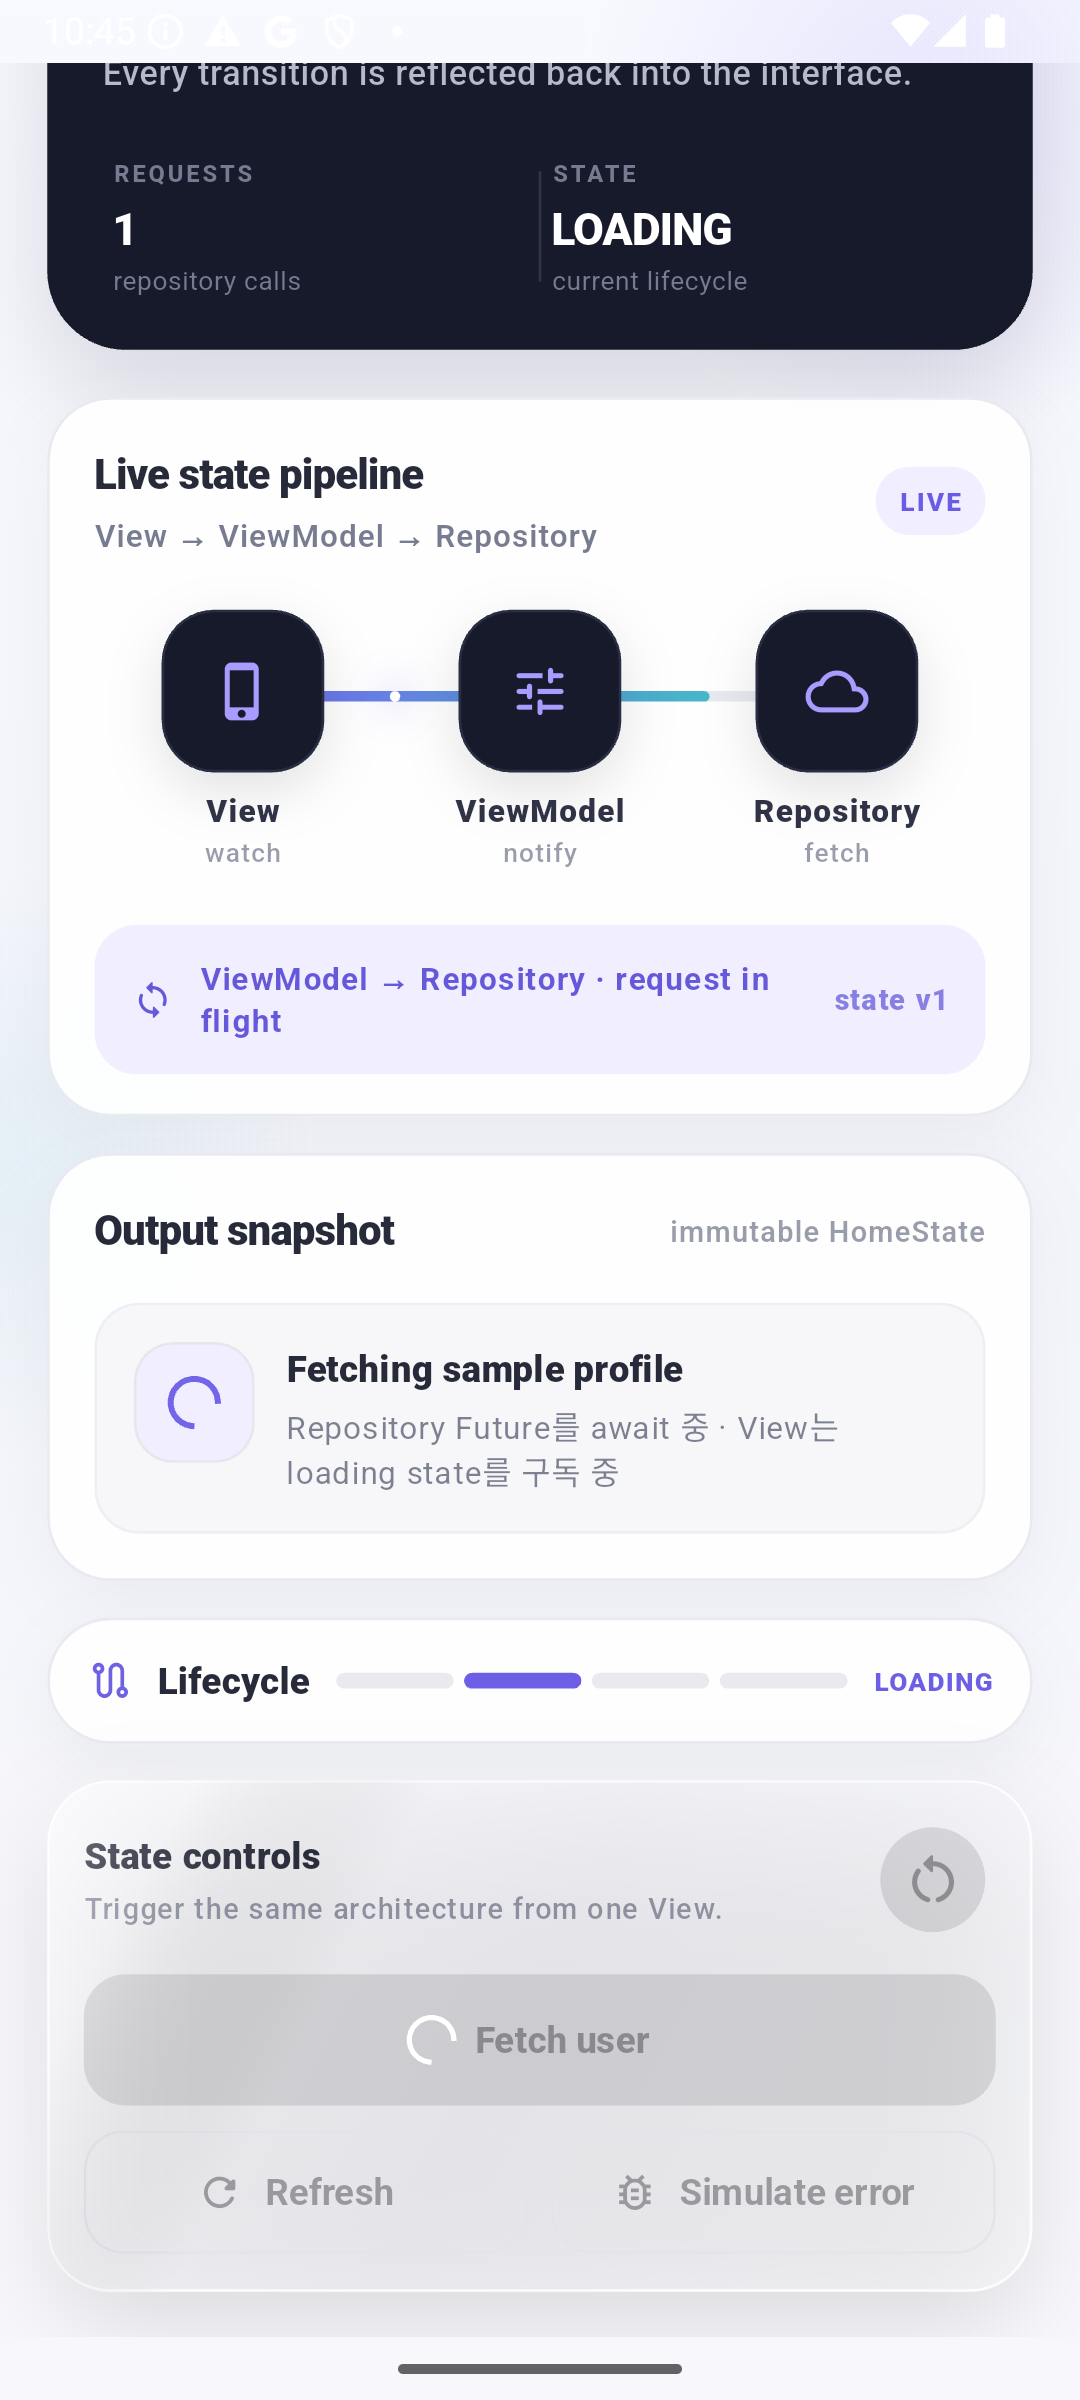
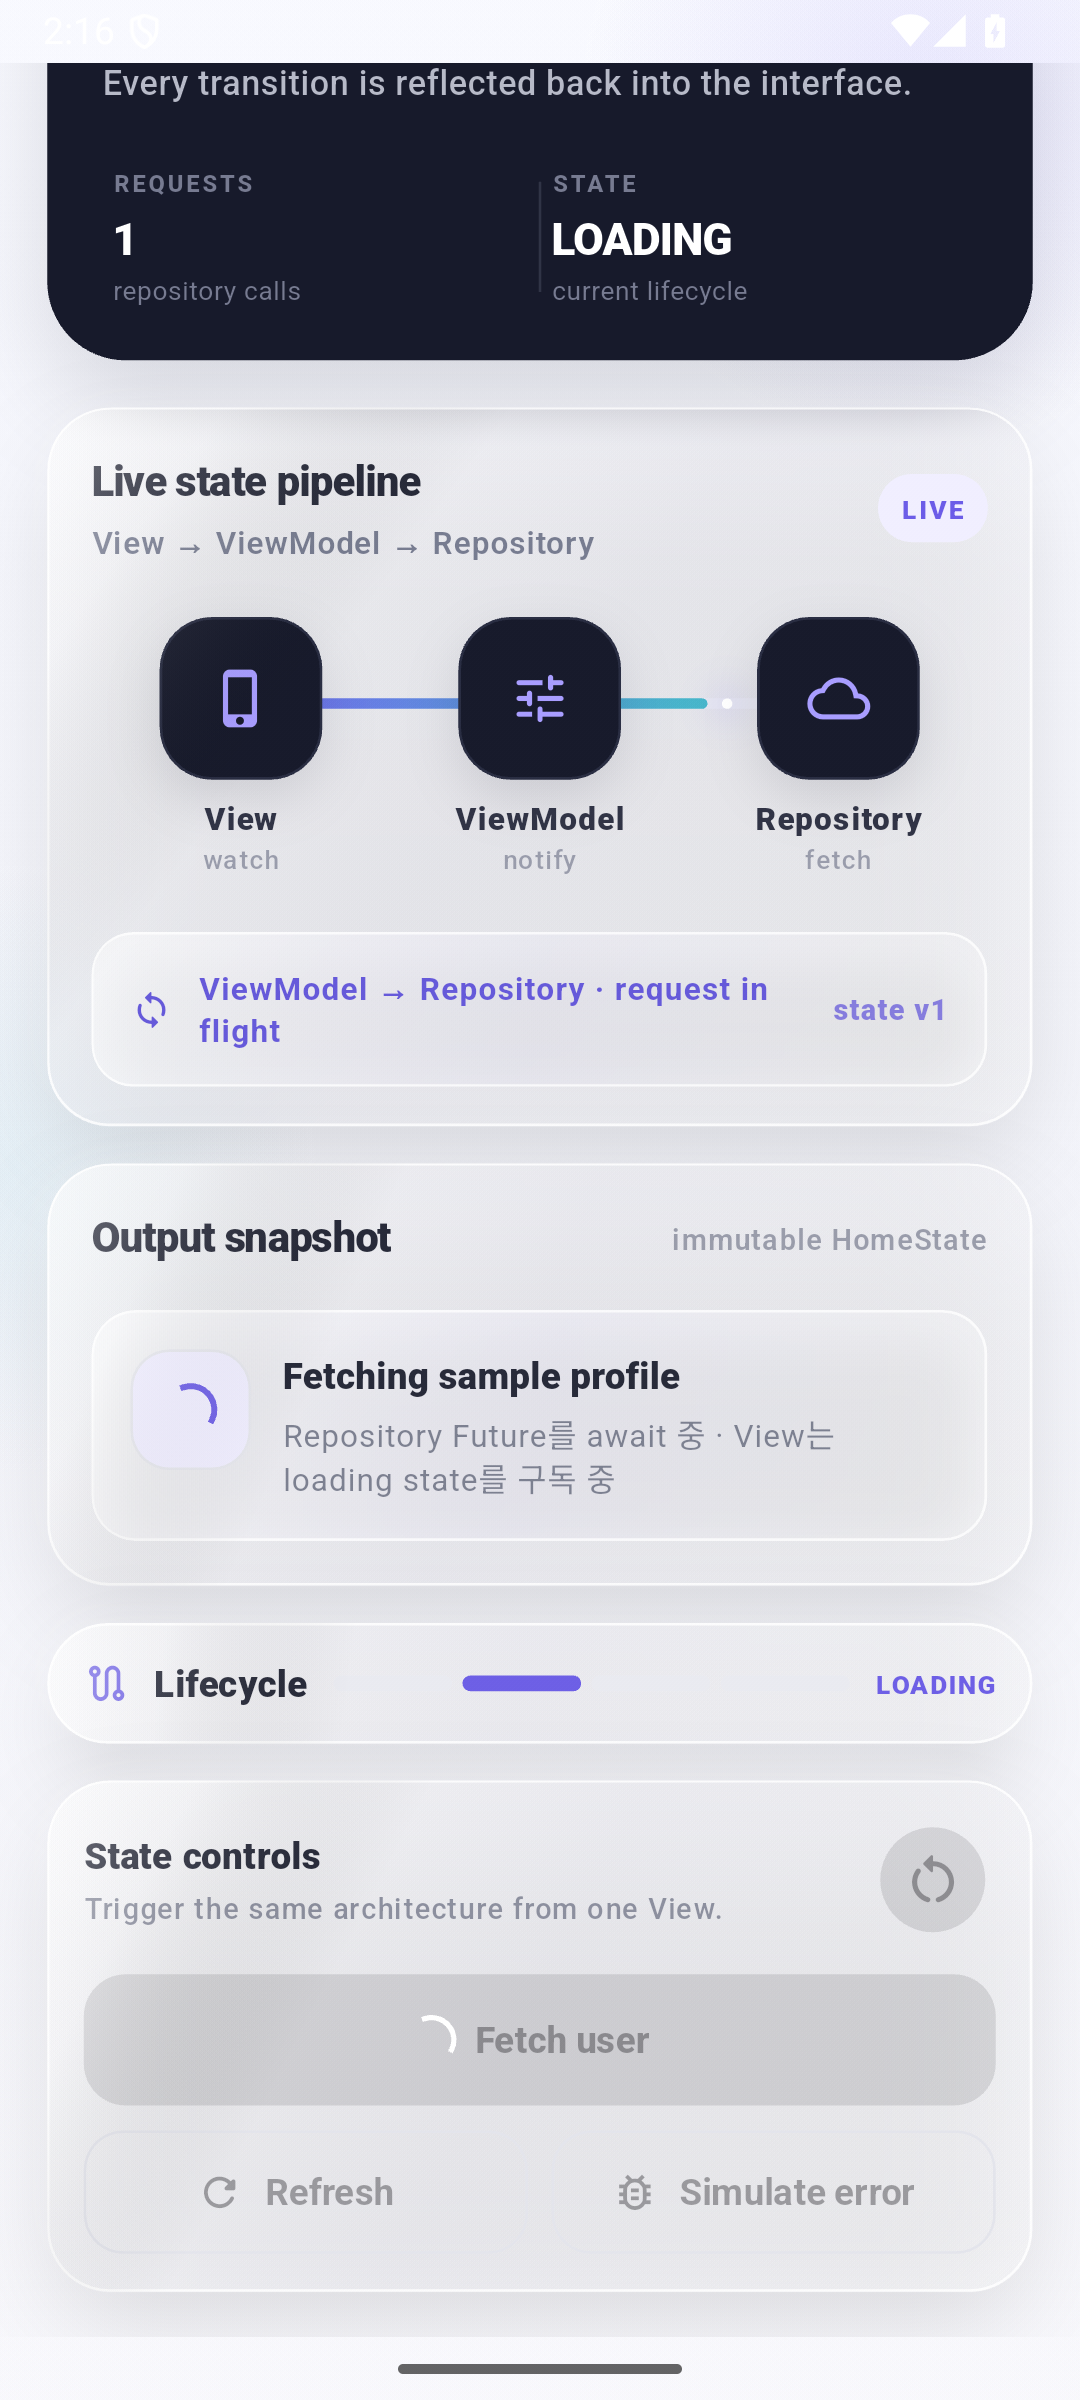
Refine liquid glass portfolio surfaces

diff --git a/lib/v2_glass.dart b/lib/v2_glass.dart
@@ -3,18 +3,26 @@ import 'dart:ui';
 import 'package:flutter/material.dart';
 
 class AppGlassSurface extends StatelessWidget {
-  const AppGlassSurface({super.key, required this.child});
+  const AppGlassSurface({
+    super.key,
+    required this.child,
+    this.radius = 24,
+    this.blurSigma = 22,
+  });
 
   final Widget child;
+  final double radius;
+  final double blurSigma;
 
   @override
   Widget build(BuildContext context) {
     final highContrast = MediaQuery.maybeOf(context)?.highContrast ?? false;
     final theme = Theme.of(context);
     final dark = theme.brightness == Brightness.dark;
-    final radius = BorderRadius.circular(24);
+    final borderRadius = BorderRadius.circular(radius);
     final base = dark ? const Color(0xFF25262D) : Colors.white;
-    final accent = Color.lerp(base, theme.colorScheme.primary, dark ? .16 : .11)!;
+    final accent =
+        Color.lerp(base, theme.colorScheme.primary, dark ? .16 : .11)!;
     final topAlpha = highContrast ? (dark ? .96 : .98) : (dark ? .60 : .46);
     final middleAlpha = highContrast ? (dark ? .94 : .96) : (dark ? .50 : .34);
     final bottomAlpha = highContrast ? (dark ? .92 : .94) : (dark ? .42 : .26);
@@ -24,7 +32,7 @@ class AppGlassSurface extends StatelessWidget {
       children: [
         DecoratedBox(
           decoration: BoxDecoration(
-            borderRadius: radius,
+            borderRadius: borderRadius,
             gradient: LinearGradient(
               begin: Alignment.topLeft,
               end: Alignment.bottomRight,
@@ -48,7 +56,7 @@ class AppGlassSurface extends StatelessWidget {
           child: IgnorePointer(
             child: DecoratedBox(
               decoration: BoxDecoration(
-                borderRadius: radius,
+                borderRadius: borderRadius,
                 gradient: LinearGradient(
                   begin: Alignment.topLeft,
                   end: Alignment.center,
@@ -67,18 +75,18 @@ class AppGlassSurface extends StatelessWidget {
     );
 
     final clipped = ClipRRect(
-      borderRadius: radius,
+      borderRadius: borderRadius,
       child: highContrast
           ? body
           : BackdropFilter(
-              filter: ImageFilter.blur(sigmaX: 22, sigmaY: 22),
+              filter: ImageFilter.blur(sigmaX: blurSigma, sigmaY: blurSigma),
               child: body,
             ),
     );
 
     return DecoratedBox(
       decoration: BoxDecoration(
-        borderRadius: radius,
+        borderRadius: borderRadius,
         boxShadow: [
           BoxShadow(
             color: Colors.black.withValues(alpha: dark ? .28 : .13),
@@ -95,6 +103,71 @@ class AppGlassSurface extends StatelessWidget {
         ],
       ),
       child: clipped,
+    );
+  }
+}
+
+class AppGlassInset extends StatelessWidget {
+  const AppGlassInset({
+    super.key,
+    required this.child,
+    this.padding = EdgeInsets.zero,
+    this.radius = 16,
+    this.accentColor,
+  });
+
+  final Widget child;
+  final EdgeInsetsGeometry padding;
+  final double radius;
+  final Color? accentColor;
+
+  @override
+  Widget build(BuildContext context) {
+    final highContrast = MediaQuery.maybeOf(context)?.highContrast ?? false;
+    final dark = Theme.of(context).brightness == Brightness.dark;
+    final borderRadius = BorderRadius.circular(radius);
+    final base = dark ? const Color(0xFF202129) : Colors.white;
+    final accent = accentColor ?? Theme.of(context).colorScheme.primary;
+
+    final content = Container(
+      padding: padding,
+      decoration: BoxDecoration(
+        borderRadius: borderRadius,
+        gradient: LinearGradient(
+          begin: Alignment.topLeft,
+          end: Alignment.bottomRight,
+          colors: [
+            base.withValues(alpha: highContrast ? .94 : (dark ? .54 : .54)),
+            Color.lerp(base, accent, dark ? .18 : .10)!
+                .withValues(alpha: highContrast ? .92 : (dark ? .44 : .38)),
+            base.withValues(alpha: highContrast ? .90 : (dark ? .34 : .26)),
+          ],
+        ),
+        border: Border.all(
+          color: Colors.white.withValues(
+            alpha: highContrast ? (dark ? .42 : .96) : (dark ? .18 : .72),
+          ),
+        ),
+        boxShadow: [
+          BoxShadow(
+            color: Colors.black.withValues(alpha: dark ? .16 : .055),
+            blurRadius: 14,
+            spreadRadius: -6,
+            offset: const Offset(0, 7),
+          ),
+        ],
+      ),
+      child: child,
+    );
+
+    if (highContrast) return content;
+
+    return ClipRRect(
+      borderRadius: borderRadius,
+      child: BackdropFilter(
+        filter: ImageFilter.blur(sigmaX: 12, sigmaY: 12),
+        child: content,
+      ),
     );
   }
 }

diff --git a/lib/home_page.dart b/lib/home_page.dart
@@ -651,40 +651,32 @@ class _TraceLine extends StatelessWidget {
 
   @override
   Widget build(BuildContext context) {
-    final (icon, message, color, background) = switch (state.status) {
+    final (icon, message, color) = switch (state.status) {
       RequestStatus.idle => (
           Icons.radio_button_checked_rounded,
           'Waiting for a UI event',
           const Color(0xFF717687),
-          const Color(0xFFF5F5F8),
         ),
       RequestStatus.loading => (
           Icons.sync_rounded,
           'ViewModel → Repository · request in flight',
           const Color(0xFF6559D9),
-          const Color(0xFFF1EFFF),
         ),
       RequestStatus.success => (
           Icons.check_circle_rounded,
           'Repository → ViewModel → View · state committed',
           const Color(0xFF17816D),
-          const Color(0xFFE8F7F2),
         ),
       RequestStatus.error => (
           Icons.error_rounded,
           'Repository → ViewModel · error captured, retry available',
           const Color(0xFFB44E62),
-          const Color(0xFFFFEFF2),
         ),
     };
 
-    return Container(
-      width: double.infinity,
+    return AppGlassInset(
       padding: const EdgeInsets.symmetric(horizontal: 14, vertical: 12),
-      decoration: BoxDecoration(
-        color: background,
-        borderRadius: BorderRadius.circular(16),
-      ),
+      accentColor: color,
       child: Row(
         children: [
           Icon(icon, size: 16, color: color),
@@ -861,14 +853,10 @@ class _OutputBody extends StatelessWidget {
           ],
         ),
         const SizedBox(height: 14),
-        Container(
-          width: double.infinity,
+        AppGlassInset(
           padding: const EdgeInsets.symmetric(horizontal: 12, vertical: 10),
-          decoration: BoxDecoration(
-            color: const Color(0xFFF7F7FA),
-            borderRadius: BorderRadius.circular(14),
-            border: Border.all(color: const Color(0xFFEEEFF4)),
-          ),
+          radius: 14,
+          accentColor: const Color(0xFF7668EA),
           child: Row(
             children: [
               const Icon(
@@ -925,14 +913,10 @@ class _EmptyOutput extends StatelessWidget {
   Widget build(BuildContext context) {
     final loading = state.status == RequestStatus.loading;
 
-    return Container(
-      width: double.infinity,
+    return AppGlassInset(
       padding: const EdgeInsets.all(14),
-      decoration: BoxDecoration(
-        color: const Color(0xFFF7F7FA),
-        borderRadius: BorderRadius.circular(17),
-        border: Border.all(color: const Color(0xFFEEEFF4)),
-      ),
+      radius: 17,
+      accentColor: loading ? const Color(0xFF7365E7) : const Color(0xFF7D8190),
       child: Row(
         crossAxisAlignment: CrossAxisAlignment.start,
         children: [
@@ -994,16 +978,10 @@ class _ErrorOutput extends StatelessWidget {
 
   @override
   Widget build(BuildContext context) {
-    return Container(
-      width: double.infinity,
+    return AppGlassInset(
       padding: const EdgeInsets.all(14),
-      decoration: BoxDecoration(
-        gradient: const LinearGradient(
-          colors: [Color(0xFFFFF3F5), Color(0xFFFFF8F8)],
-        ),
-        borderRadius: BorderRadius.circular(17),
-        border: Border.all(color: const Color(0xFFF8D8DE)),
-      ),
+      radius: 17,
+      accentColor: const Color(0xFFB24C60),
       child: Row(
         crossAxisAlignment: CrossAxisAlignment.start,
         children: [
@@ -1064,12 +1042,9 @@ class _DataPoint extends StatelessWidget {
 
   @override
   Widget build(BuildContext context) {
-    return Container(
+    return AppGlassInset(
       padding: const EdgeInsets.symmetric(horizontal: 10, vertical: 9),
-      decoration: BoxDecoration(
-        color: const Color(0xFFF7F7FA),
-        borderRadius: BorderRadius.circular(13),
-      ),
+      radius: 13,
       child: Column(
         crossAxisAlignment: CrossAxisAlignment.start,
         children: [
@@ -1274,21 +1249,11 @@ class _Surface extends StatelessWidget {
 
   @override
   Widget build(BuildContext context) {
-    return Container(
-      padding: padding,
-      decoration: BoxDecoration(
-        color: Colors.white.withValues(alpha: 0.94),
-        borderRadius: BorderRadius.circular(24),
-        border: Border.all(color: const Color(0xFFE9EAF0)),
-        boxShadow: const [
-          BoxShadow(
-            color: Color(0x0C171A2B),
-            blurRadius: 22,
-            offset: Offset(0, 8),
-          ),
-        ],
+    return AppGlassSurface(
+      child: Padding(
+        padding: padding,
+        child: child,
       ),
-      child: child,
     );
   }
 }
